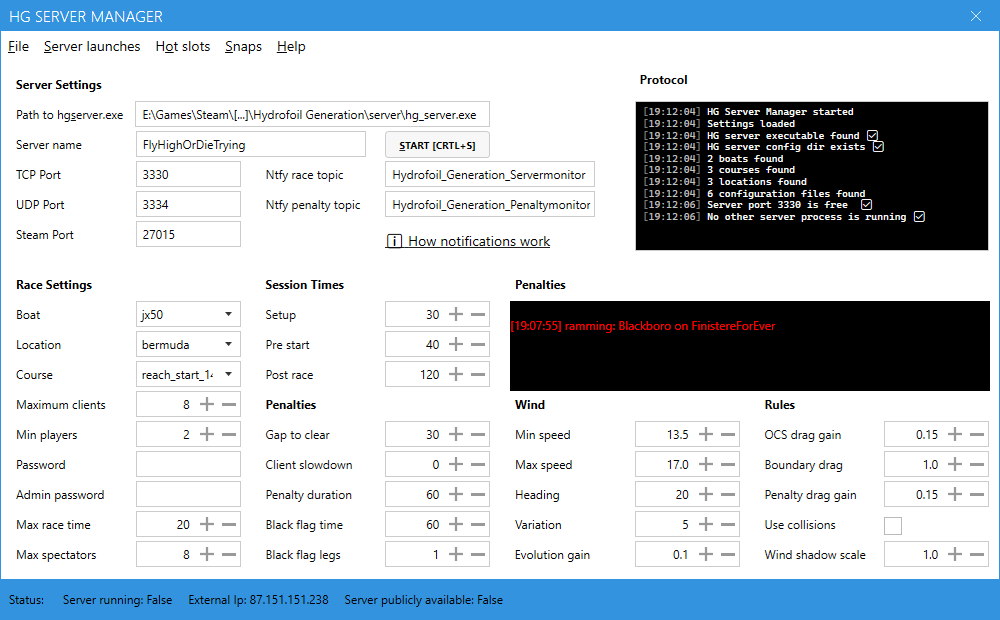
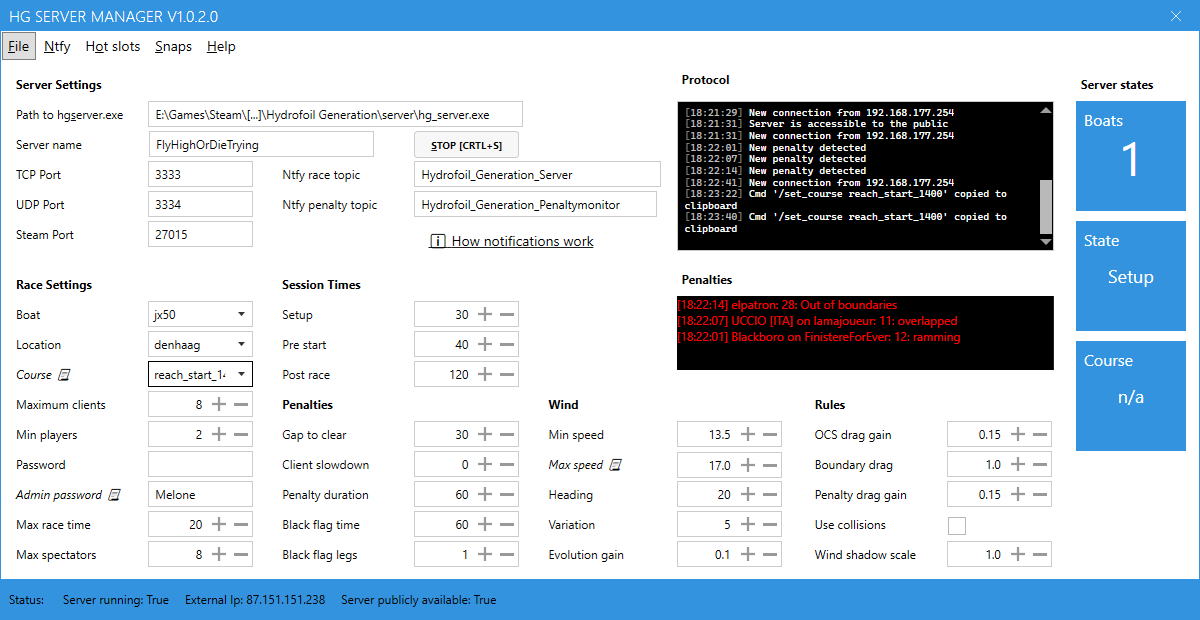
Remove clipboard functionality, HG does not support pasting

diff --git a/HG-ServerUI/MainWindow.xaml b/HG-ServerUI/MainWindow.xaml
@@ -481,13 +481,11 @@
             />
         <Label 
             x:Name="LbCourse"
-            Content="Course 📃" 
+            Content="Course" 
             HorizontalAlignment="Left" 
             Margin="10,100,0,0" 
             Grid.Row="2" 
             VerticalAlignment="Top" 
-            FontStyle="Italic" 
-            MouseDoubleClick="LbCourse_MouseDoubleClick" 
             />
         <Label 
             Content="Maximum clients" 
@@ -512,13 +510,11 @@
             />
         <Label 
             x:Name="LbAdminPassword"
-            Content="Admin password 📃" 
+            Content="Admin password" 
             HorizontalAlignment="Left" 
             Margin="10,220,0,0" 
             Grid.Row="2" 
             VerticalAlignment="Top" 
-            FontStyle="Italic" 
-            MouseDoubleClick="LbAdminPassword_MouseDoubleClick"
             />
         <Label 
             Content="Max race time" 
@@ -730,13 +726,11 @@
         <Label 
             x:Name="LbWindMax"
             Grid.Column="4" 
-            Content="Max speed 📃" 
+            Content="Max speed" 
             HorizontalAlignment="Left" 
             Margin="10,190,0,0" 
             Grid.Row="2" 
             VerticalAlignment="Top" 
-            FontStyle="Italic" 
-            MouseDoubleClick="LbWindMax_MouseDoubleClick" 
             >
         </Label>
         <Label 

diff --git a/HG-ServerUI/MainWindow.xaml.cs b/HG-ServerUI/MainWindow.xaml.cs
@@ -347,7 +347,11 @@ namespace HG_ServerUI
                         settingsModel.Serverprocessrunning = false;
                         settingsModel.Serverreachable = false;
                         settingsModel.Btnservercontent = "_Start [Crtl+s]";
+                        settingsModel.Boatsinrace = "0";
+                        settingsModel.Activecourse = "n/a";
+                        settingsModel.Racestate = "Inactive";
                         Log.Information("HG server stopped");
+                        
                         //ToggleControls(true);
                     }
                     catch (Exception ex)
@@ -798,23 +802,23 @@ namespace HG_ServerUI
             }
         }
 
-        private void LbCourse_MouseDoubleClick(object sender, MouseButtonEventArgs e)
-        {
-            Clipboard.SetText($"/set_course {CbCourse.Text}");
-            Log.Information($"Cmd '/set_course {CbCourse.Text}' copied to clipboard");
-        }
+        //private void LbCourse_MouseDoubleClick(object sender, MouseButtonEventArgs e)
+        //{
+        //    Clipboard.SetText($"/set_course {CbCourse.Text}");
+        //    Log.Information($"Cmd '/set_course {CbCourse.Text}' copied to clipboard");
+        //}
 
-        private void LbWindMax_MouseDoubleClick(object sender, MouseButtonEventArgs e)
-        {
-            Clipboard.SetText($"/set_wind {NmWindMaxSpeed.Value}");
-            Log.Information($"Cmd '/set_wind {NmWindMaxSpeed.Value}' copied to clipboard");
-        }
+        //private void LbWindMax_MouseDoubleClick(object sender, MouseButtonEventArgs e)
+        //{
+        //    Clipboard.SetText($"/set_wind {NmWindMaxSpeed.Value}");
+        //    Log.Information($"Cmd '/set_wind {NmWindMaxSpeed.Value}' copied to clipboard");
+        //}
 
-        private void LbAdminPassword_MouseDoubleClick(object sender, MouseButtonEventArgs e)
-        {
-            Clipboard.SetText($"/admin {settingsModel.Adminpassword}");
-            Log.Information($"Cmd '/admin {settingsModel.Adminpassword}' copied to clipboard");
-        }
+        //private void LbAdminPassword_MouseDoubleClick(object sender, MouseButtonEventArgs e)
+        //{
+        //    Clipboard.SetText($"/admin {settingsModel.Adminpassword}");
+        //    Log.Information($"Cmd '/admin {settingsModel.Adminpassword}' copied to clipboard");
+        //}
 
         private void RtbLogMessages_TextChanged(object sender, TextChangedEventArgs e)
         {
